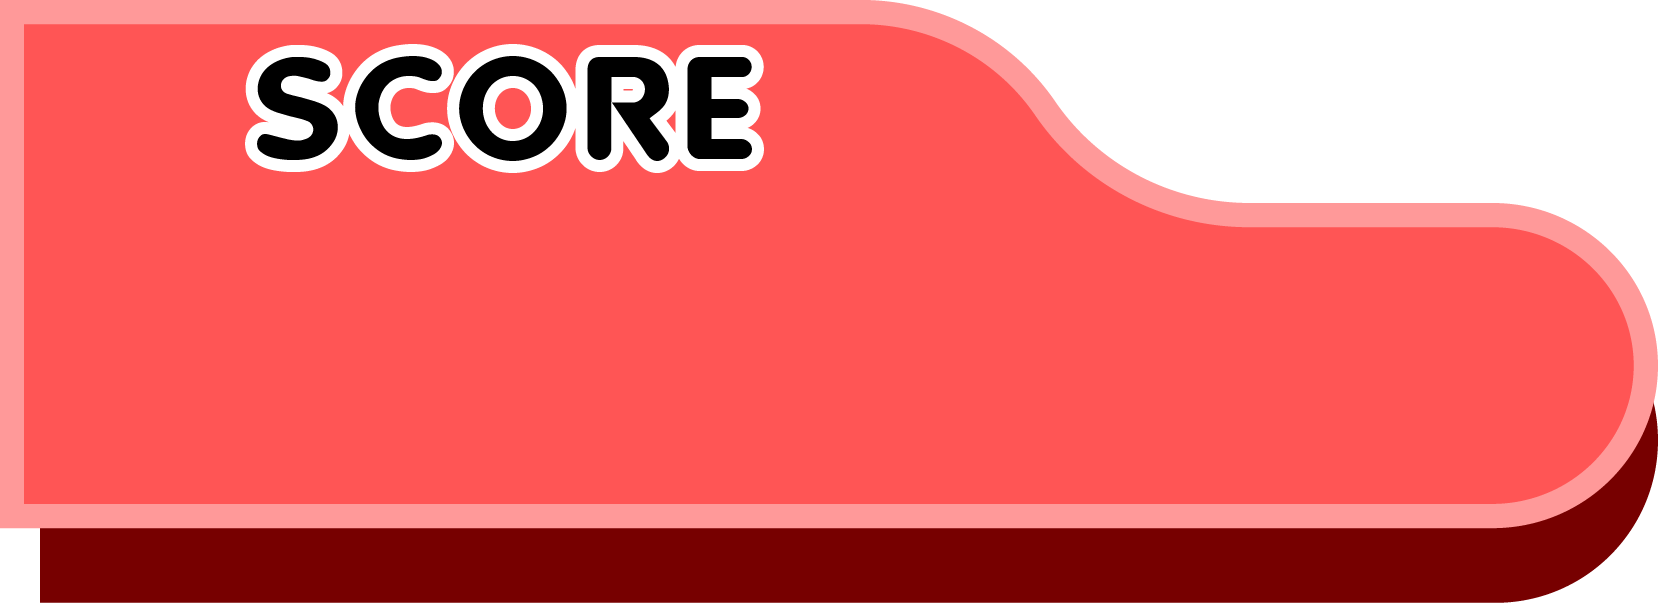
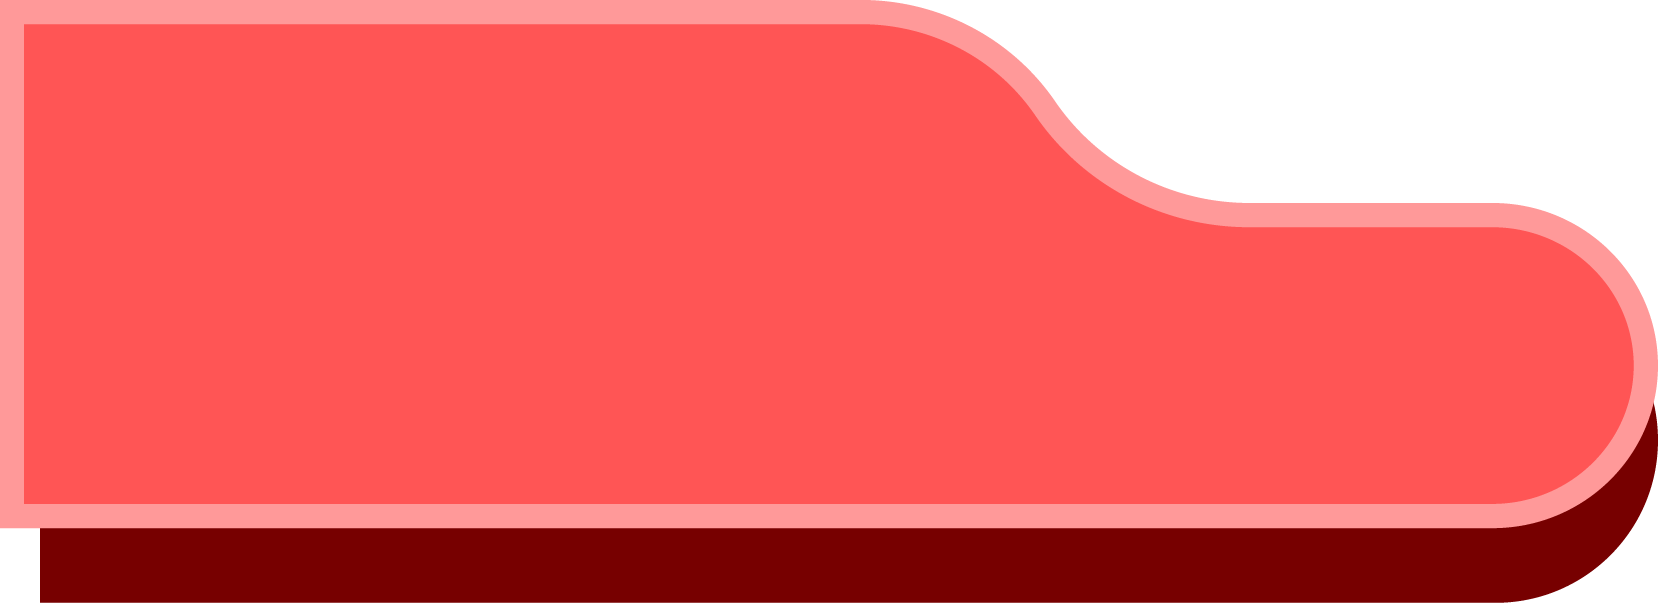
Replace score/ammo/time HUD panels with blank assets + text labels (#16)
* Replace score/ammo/time HUD panels with blank assets and text labels

Swap in the Drive blank panel art (same dimensions) and render SCORE,
AMMO, and TIME as separate DOM labels so panel chrome stays text-free.

* Scale HUD panel labels down on narrow viewports

* Unify SCORE/AMMO/TIME label stroke to white fill with dark outline

* Match AMMO/TIME label colors to original black fill with white outline

* Invert SCORE label colors and enlarge HUD panel text

Make SCORE dark-on-white like AMMO/TIME, and bump label, score, and
timer font sizes for clearer readability.

* Center ammo teeth independently of the AMMO label

Absolutely position the tooth row and use justify-content:center so the
label no longer skews the icons to the right.

* Vertically center score and time values in panel bodies

Position the score and timer numbers in the lower band below each
panel's label nudge instead of pinning them to the bottom edge.

* Equalize score/time vertical margins in the lower panel body

Pin values to a top/bottom band below the label nudge and flex-center
them so top and bottom gaps match within that region.

* Push score/time values to true lower-body vertical center

Center values at ~70% of panel height (midpoint of nudge floor to
panel bottom, plus font optical offset) so top and bottom gaps match.

* Fine-tune score/time vertical centering for equal face margins

Flex-center values in the light lower-body band (nudge floor to bevel)
[…]

Changed region(s): [[0.123, 0.0597, 0.4614, 0.2985]]

diff --git a/index.html b/index.html
@@ -243,22 +243,105 @@
         image-rendering: auto;
       }
 
+      /* Panel title labels (separate from baked-in art) */
+      .hud-panel-label {
+        position: absolute;
+        z-index: 1;
+        font: 800 clamp(14px, 2.2vw, 24px)/1 'Baloo 2', 'Fredoka', sans-serif;
+        letter-spacing: 0.04em;
+        pointer-events: none;
+        user-select: none;
+        white-space: nowrap;
+        paint-order: stroke fill;
+      }
+      .hud-score-label {
+        left: 14.8%;
+        top: 6.5%;
+        color: #1a1018;
+        -webkit-text-stroke: 0;
+        text-shadow:
+          -2px -2px 0 #fff,
+           0px -2px 0 #fff,
+           2px -2px 0 #fff,
+          -2px  0px 0 #fff,
+           2px  0px 0 #fff,
+          -2px  2px 0 #fff,
+           0px  2px 0 #fff,
+           2px  2px 0 #fff;
+      }
+      .hud-ammo-label {
+        left: 50%;
+        top: 6.5%;
+        transform: translateX(-50%);
+        color: #1a1018;
+        -webkit-text-stroke: 0;
+        text-shadow:
+          -2px -2px 0 #fff,
+           0px -2px 0 #fff,
+           2px -2px 0 #fff,
+          -2px  0px 0 #fff,
+           2px  0px 0 #fff,
+          -2px  2px 0 #fff,
+           0px  2px 0 #fff,
+           2px  2px 0 #fff;
+      }
+      .hud-time-label {
+        right: 19%;
+        top: 6.5%;
+        color: #1a1018;
+        -webkit-text-stroke: 0;
+        text-shadow:
+          -2px -2px 0 #fff,
+           0px -2px 0 #fff,
+           2px -2px 0 #fff,
+          -2px  0px 0 #fff,
+           2px  0px 0 #fff,
+          -2px  2px 0 #fff,
+           0px  2px 0 #fff,
+           2px  2px 0 #fff;
+      }
+      .hud-lives-label {
+        right: 16%;
+        top: 6.5%;
+        color: #1a1018;
+        -webkit-text-stroke: 0;
+        text-shadow:
+          -2px -2px 0 #fff,
+           0px -2px 0 #fff,
+           2px -2px 0 #fff,
+          -2px  0px 0 #fff,
+           2px  0px 0 #fff,
+          -2px  2px 0 #fff,
+           0px  2px 0 #fff,
+           2px  2px 0 #fff;
+      }
+
       /* SCORE — flush left edge of screen */
       .hud-score {
         width: clamp(150px, 21vw, 270px);
         height: clamp(54px, 7.5vw, 98px);
         background-image: url('/assets/hud/score.png');
-        display: flex;
-        align-items: flex-end;
-        justify-content: flex-end;
-        padding: 0 clamp(14px, 2.25vw, 27px) clamp(10px, 1.5vw, 21px) 0;
+        display: block;
       }
       .hud-score-num {
-        font: 800 clamp(21px, 3.4vw, 36px)/1 'Baloo 2', 'Fredoka', sans-serif;
+        position: absolute;
+        right: clamp(14px, 2.25vw, 27px);
+        /*
+          Center in the light face of the lower body only:
+          nudge floor ~34% → face/bevel seam ~90%. Flex-centers for equal gaps.
+        */
+        top: 34%;
+        bottom: 10%;
+        display: flex;
+        align-items: center;
+        justify-content: flex-end;
+        box-sizing: border-box;
+        font: 800 clamp(26px, 4.2vw, 44px)/1 'Baloo 2', 'Fredoka', sans-serif;
         color: #fff;
         -webkit-text-stroke: 3px #1a1018;
         paint-order: stroke fill;
         letter-spacing: 0.02em;
+        line-height: 1;
       }
 
       /* COMBO ribbon — above score, with clear gap */
@@ -299,29 +382,30 @@
         width: min(390px, 42vw);
         height: clamp(52px, 7.1vw, 90px);
         background-image: url('/assets/hud/ammo.png');
-        display: flex;
-        align-items: flex-end;
-        justify-content: center;
-        padding: 0 6.5% clamp(10px, 1.4vw, 18px);
+        /* Icons are absolutely placed so the AMMO label cannot skew centering */
+        display: block;
         overflow: hidden;
         box-sizing: border-box;
       }
       .hud-ammo-icons {
+        position: absolute;
+        left: 8%;
+        right: 8%;
+        bottom: clamp(10px, 1.4vw, 18px);
         display: flex;
         align-items: center;
-        justify-content: space-between;
-        gap: clamp(2px, 0.45vw, 6px);
-        width: 100%;
+        justify-content: center;
+        gap: clamp(6px, 1.1vw, 14px);
         min-height: 0;
-        margin-bottom: 2px;
+        margin: 0;
+        pointer-events: none;
       }
       .hud-tooth {
         display: grid;
         place-items: center;
-        flex: 1 1 0;
-        width: auto;
-        max-width: 36px;
-        height: clamp(21px, 3.15vw, 34px);
+        flex: 0 0 auto;
+        width: clamp(22px, 3.4vw, 36px);
+        height: clamp(22px, 3.4vw, 36px);
         aspect-ratio: 1;
         transition: transform 0.15s ease, opacity 0.15s ease, filter 0.15s ease;
       }
@@ -352,25 +436,32 @@
         width: clamp(165px, 23vw, 290px);
         height: clamp(54px, 7.5vw, 98px);
         background-image: url('/assets/hud/time.png');
-        display: flex;
-        align-items: flex-end;
-        justify-content: flex-start;
-        padding: 0 0 clamp(10px, 1.5vw, 21px) clamp(12px, 2vw, 24px);
+        display: block;
       }
       .hud-time-value {
+        position: absolute;
+        left: clamp(12px, 2vw, 24px);
+        /*
+          Center in the light face of the lower body only:
+          nudge floor ~34% → face/bevel seam ~90%. Flex-centers for equal gaps.
+        */
+        top: 34%;
+        bottom: 10%;
         display: flex;
-        align-items: baseline;
+        align-items: center;
         gap: 0;
+        box-sizing: border-box;
         color: #fff;
         -webkit-text-stroke: 3px #1a1018;
         paint-order: stroke fill;
+        line-height: 1;
       }
       .hud-time-sec {
-        font: 800 clamp(18px, 3vw, 32px)/1 'Baloo 2', 'Fredoka', sans-serif;
+        font: 800 clamp(22px, 3.6vw, 40px)/1 'Baloo 2', 'Fredoka', sans-serif;
       }
       .hud-time-dot,
       .hud-time-ms {
-        font: 800 clamp(12px, 2vw, 20px)/1 'Baloo 2', 'Fredoka', sans-serif;
+        font: 800 clamp(15px, 2.4vw, 25px)/1 'Baloo 2', 'Fredoka', sans-serif;
       }
       .hud-time.critical {
         animation: criticalPulse 0.6s ease-in-out infinite;
@@ -385,27 +476,41 @@
         width: clamp(150px, 21vw, 270px);
         height: clamp(54px, 7.5vw, 98px);
         background-image: url('/assets/hud/lives.png');
-        display: flex;
-        align-items: flex-end;
-        justify-content: flex-start;
-        padding: 0 0 clamp(10px, 1.5vw, 21px) clamp(14px, 2.25vw, 27px);
+        display: block;
       }
       .hud-lives-value {
+        position: absolute;
+        left: clamp(14px, 2.25vw, 27px);
+        /* Match score/time: center in light lower body below the LIVES nudge */
+        top: 34%;
+        bottom: 10%;
         display: flex;
         align-items: center;
-        gap: 2px;
-        font-size: clamp(17px, 3vw, 27px);
+        gap: clamp(2px, 0.4vw, 6px);
+        box-sizing: border-box;
         line-height: 1;
       }
       .hud-heart {
-        color: #fff;
-        text-shadow:
-          -2px -2px 0 #1a1018,
-           2px -2px 0 #1a1018,
-          -2px  2px 0 #1a1018,
-           2px  2px 0 #1a1018;
+        display: grid;
+        place-items: center;
+        flex: 0 0 auto;
+        width: clamp(22px, 3.4vw, 34px);
+        height: clamp(22px, 3.4vw, 34px);
       }
-      .hud-heart.empty { color: #ffe0ea; font-size: 0.9em; }
+      .hud-heart-icon {
+        width: 100%;
+        height: 100%;
+        object-fit: contain;
+        display: block;
+        pointer-events: none;
+        user-select: none;
+      }
+      .hud-heart-zero {
+        font: 800 clamp(22px, 3.6vw, 40px)/1 'Baloo 2', 'Fredoka', sans-serif;
+        color: #fff;
+        -webkit-text-stroke: 3px #1a1018;
+        paint-order: stroke fill;
+      }
       .hud-lives.critical { animation: criticalPulse 0.6s ease-in-out infinite; }
 
       .hud-reload-hint {
@@ -624,10 +729,13 @@
         .hud-score,
         .hud-time,
         .hud-lives { width: clamp(105px, 28.5vw, 150px); height: clamp(42px, 10.5vw, 60px); }
-        .hud-ammo { width: min(100%, 70vw); height: clamp(44px, 12vw, 63px); padding: 0 7% 8px; }
+        .hud-ammo { width: min(100%, 70vw); height: clamp(44px, 12vw, 63px); }
+        .hud-ammo-icons { left: 7%; right: 7%; bottom: 8px; gap: 5px; }
+        .hud-panel-label { font-size: 13px; }
         .hud-combo { width: 75px; height: 24px; bottom: calc(100% + 22px); }
         .hud-combo-text { font-size: 10px; }
-        .hud-tooth { height: 20px; max-width: 28px; }
+        .hud-tooth { width: 20px; height: 20px; }
+        .hud-heart { width: 20px; height: 20px; }
       }
     </style>
   </head>

diff --git a/src/ui/HUD.ts b/src/ui/HUD.ts
@@ -3,6 +3,7 @@ import type { GameMode } from '../config/gameConfig';
 import { playCountdownTickSound } from '../audio/sfx';
 
 const TOOTH_IMG = `<img class="hud-tooth-icon" src="/assets/hud/tooth.png" alt="" draggable="false" />`;
+const HEART_IMG = `<img class="hud-heart-icon" src="/assets/hud/heart.png" alt="" draggable="false" />`;
 
 export class HUD {
   private root: HTMLElement;
@@ -33,6 +34,7 @@ export class HUD {
       mode === 'timed'
         ? `
       <div class="hud-panel hud-time" aria-label="Time">
+        <span class="hud-panel-label hud-time-label">TIME</span>
         <div class="hud-time-value">
           <span class="hud-time-sec">180</span>
           <span class="hud-time-dot">.</span>
@@ -41,6 +43,7 @@ export class HUD {
       </div>`
         : `
       <div class="hud-panel hud-lives" aria-label="Lives">
+        <span class="hud-panel-label hud-lives-label">LIVES</span>
         <div class="hud-lives-value">${this.hearts(gameConfig.startLives)}</div>
       </div>`;
 
@@ -51,12 +54,14 @@ export class HUD {
             <span class="hud-combo-text">COMBO <span class="hud-combo-mult">2X</span></span>
           </div>
           <div class="hud-panel hud-score" aria-label="Score">
+            <span class="hud-panel-label hud-score-label">SCORE</span>
             <span class="hud-score-num">0</span>
           </div>
         </div>
 
         <div class="hud-center">
           <div class="hud-panel hud-ammo" aria-label="Ammo">
+            <span class="hud-panel-label hud-ammo-label">AMMO</span>
             <div class="hud-ammo-icons">${teeth}</div>
           </div>
         </div>
@@ -89,8 +94,10 @@ export class HUD {
 
   private hearts(lives: number): string {
     const n = Math.max(0, lives);
-    if (n === 0) return '<span class="hud-heart empty">0</span>';
-    return Array.from({ length: n }, () => '<span class="hud-heart">♥</span>').join('');
+    if (n === 0) return '<span class="hud-heart empty"><span class="hud-heart-zero">0</span></span>';
+    return Array.from({ length: n }, () =>
+      `<span class="hud-heart filled">${HEART_IMG}</span>`,
+    ).join('');
   }
 
   setScore(score: number): void {

diff --git a/src/world/ModelCache.ts b/src/world/ModelCache.ts
@@ -35,19 +35,23 @@ export class ModelCache {
     const loader = new GLTFLoader();
     const texLoader = new THREE.TextureLoader();
 
-    const [bubbleGltf, durianGltf, goldMap] = await Promise.all([
+    const [bubbleGltf, durianGltf, goldMap, heartMap] = await Promise.all([
       loader.loadAsync(GLB_URL.bubble),
       loader.loadAsync(GLB_URL.durian),
       texLoader.loadAsync('assets/gold-durian.png'),
+      texLoader.loadAsync('assets/hud/heart.png'),
     ]);
 
     goldMap.colorSpace = THREE.SRGBColorSpace;
     goldMap.anisotropy = 1;
     this.textures.set('goldDurian', goldMap);
 
+    heartMap.colorSpace = THREE.SRGBColorSpace;
+    heartMap.anisotropy = 1;
+    this.textures.set('heart', heartMap);
+
     this.templates.set('bubble', this.normalizeTemplate(bubbleGltf.scene, gameConfig.targetSize));
     this.templates.set('durian', this.normalizeTemplate(durianGltf.scene, gameConfig.targetSize));
-    this.textures.set('heart', this.makeHeartTexture());
 
     this.ready = true;
   }
@@ -160,28 +164,5 @@ export class ModelCache {
     root.position.sub(center);
     wrapper.add(root);
     return wrapper;
-  }
-
-  private static makeHeartTexture(): THREE.Texture {
-    const s = 64;
-    const c = document.createElement('canvas');
-    c.width = s;
-    c.height = s;
-    const g = c.getContext('2d')!;
-    g.clearRect(0, 0, s, s);
-    g.fillStyle = '#ff2d55';
-    g.strokeStyle = '#ffffff';
-    g.lineWidth = 4;
-    g.beginPath();
-    const x = s / 2;
-    g.moveTo(x, s * 0.88);
-    g.bezierCurveTo(x - s * 0.55, s * 0.55, x - s * 0.45, s * 0.12, x, s * 0.32);
-    g.bezierCurveTo(x + s * 0.45, s * 0.12, x + s * 0.55, s * 0.55, x, s * 0.88);
-    g.closePath();
-    g.fill();
-    g.stroke();
-    const tex = new THREE.CanvasTexture(c);
-    tex.colorSpace = THREE.SRGBColorSpace;
-    return tex;
   }
 }
